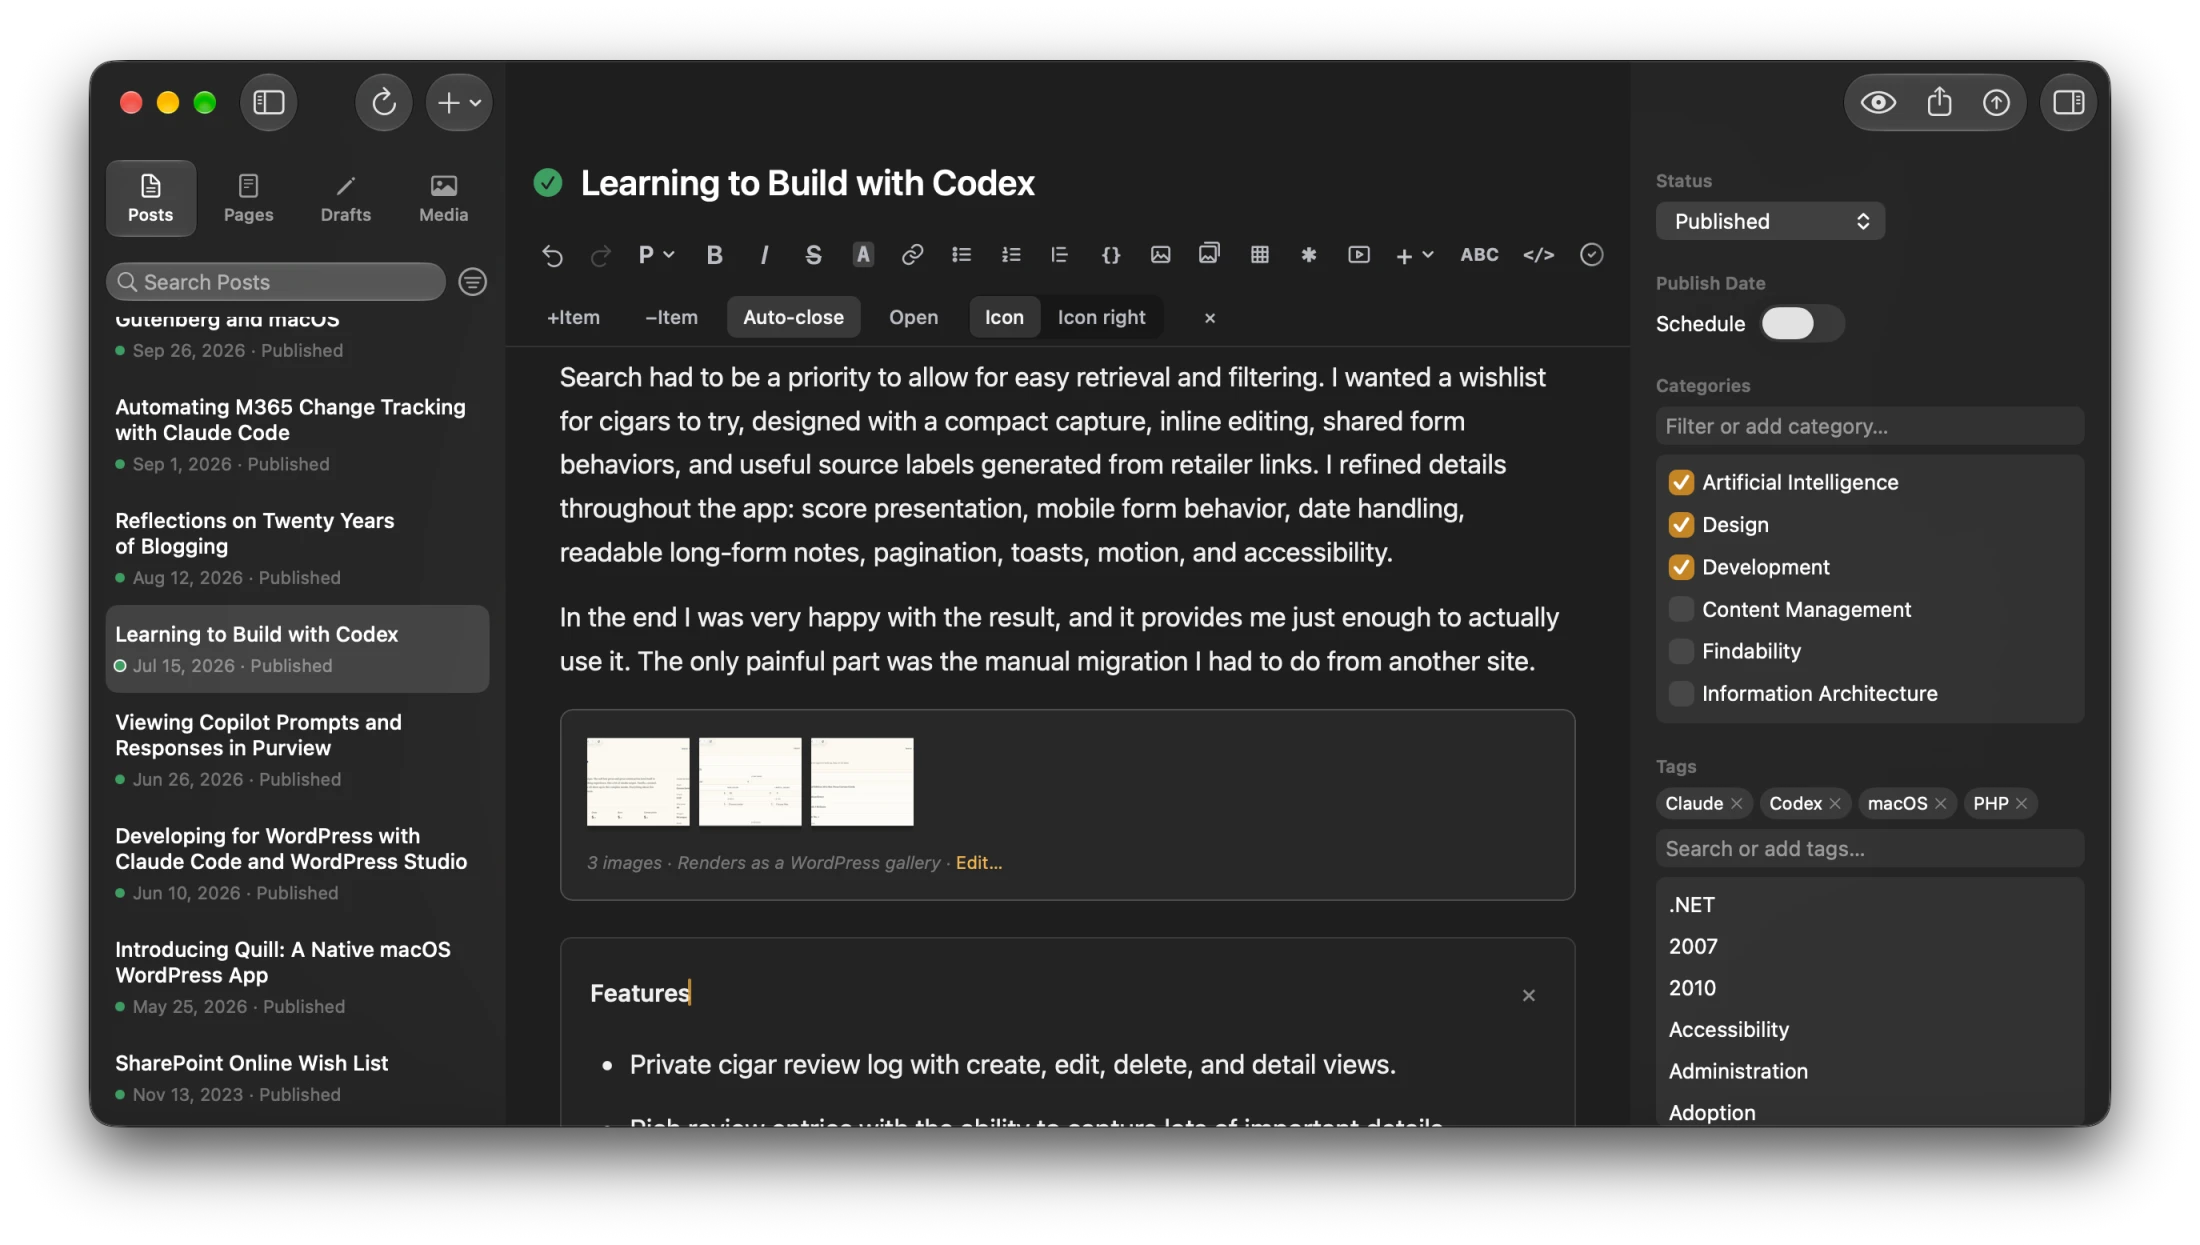
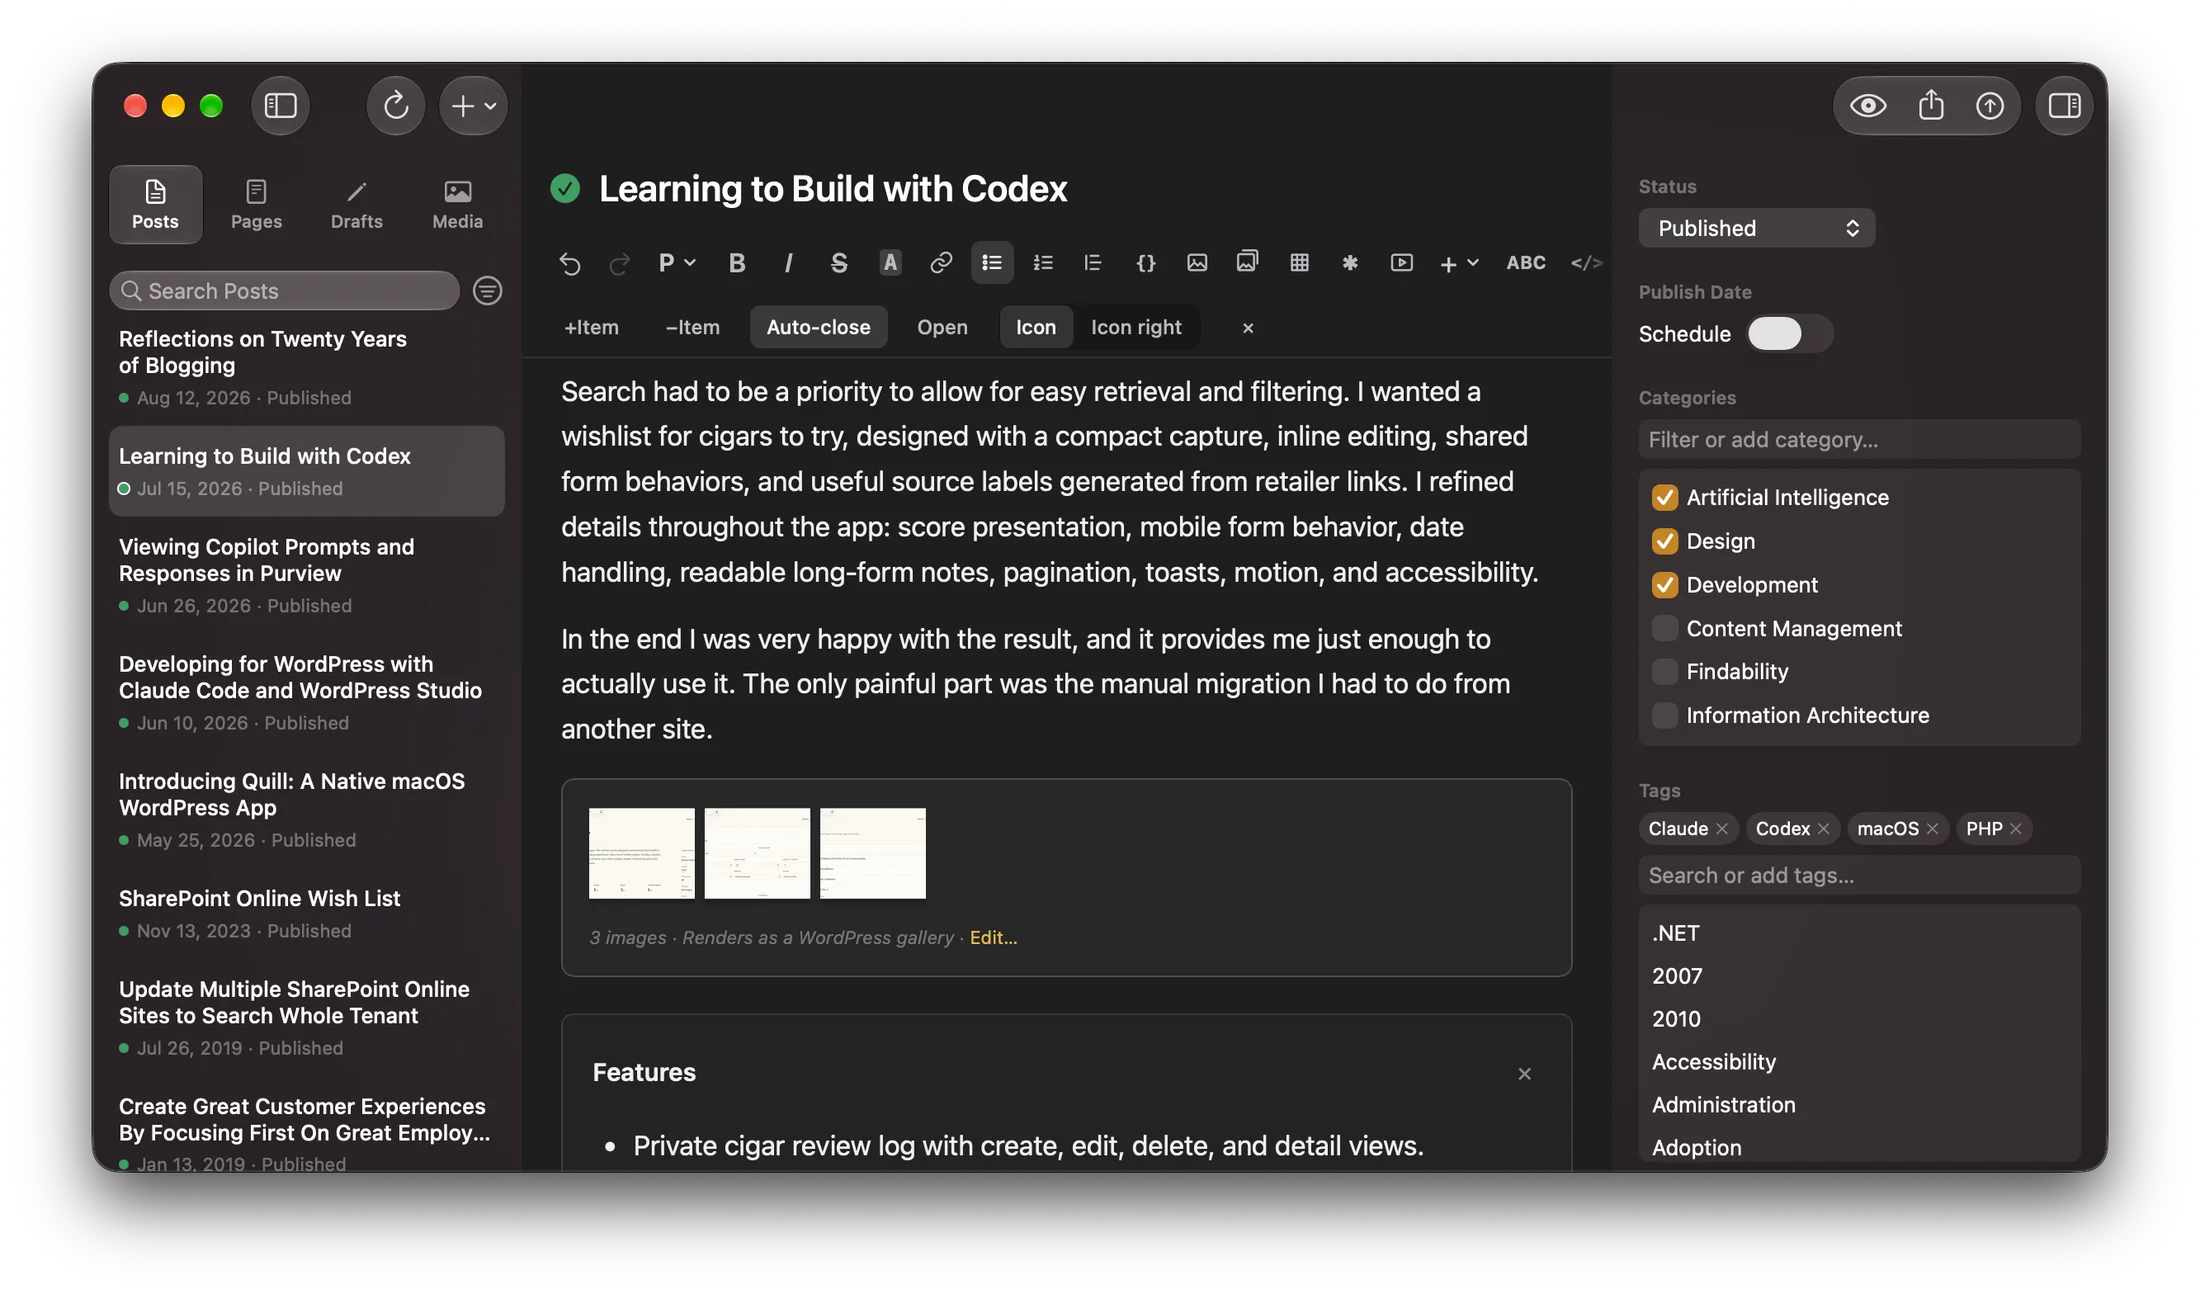
Retake the editor, drafts and media screenshots
The editor screenshot no longer cuts off a post title at the top of the
sidebar, and the drafts screenshot has no caret in the body text. The
media screenshot now matches the drafts one in size. All six are sRGB
WebP, and the drafts and media windows still line up with the text
column. The media alt text now describes the image preview shown.

diff --git a/site/index.html b/site/index.html
@@ -82,7 +82,7 @@
         <div class="lead__image">
           <picture>
             <source srcset="images/blocks-view-dark.webp" media="(prefers-color-scheme: dark)">
-            <img src="images/blocks-view.webp" alt="Quill editing an Accordion block, with the block's settings row under the toolbar" class="feature-img" width="2200" height="1245" loading="lazy">
+            <img src="images/blocks-view.webp" alt="Quill editing an Accordion block, with the block's settings row under the toolbar" class="feature-img" width="2200" height="1294" loading="lazy">
           </picture>
         </div>
       </div>
@@ -118,7 +118,7 @@
           <p class="feature-row__body">Drafts stay on your Mac until you send them, so you can write without a connection. Quill autosaves every 30 seconds, brings back unsaved changes the next time you open it, and warns you if the post was changed in WordPress while you were editing.</p>
           <picture>
             <source srcset="images/draft-view-dark.webp" media="(prefers-color-scheme: dark)">
-            <img src="images/draft-view.webp" alt="Quill showing a local draft with the Save to WordPress button in the toolbar" class="feature-img" width="1400" height="899" loading="lazy">
+            <img src="images/draft-view.webp" alt="Quill showing a local draft with the Save to WordPress button in the toolbar" class="feature-img" width="1400" height="815" loading="lazy">
           </picture>
         </div>
         <div class="pair__item">
@@ -127,7 +127,7 @@
           <p class="feature-row__body">Browse every image, document, video and audio file on your site without opening the WordPress admin. Filter by type, upload new files, edit alt text and copy a file's URL. iPhone HEIC photos are converted to JPEG when you upload them.</p>
           <picture>
             <source srcset="images/media-view-dark.webp" media="(prefers-color-scheme: dark)">
-            <img src="images/media-view.webp" alt="Quill media library showing thumbnail grid and file metadata panel" class="feature-img" width="1400" height="899" loading="lazy">
+            <img src="images/media-view.webp" alt="Quill media library previewing an image, with its file details in the inspector" class="feature-img" width="1400" height="815" loading="lazy">
           </picture>
         </div>
       </div>
